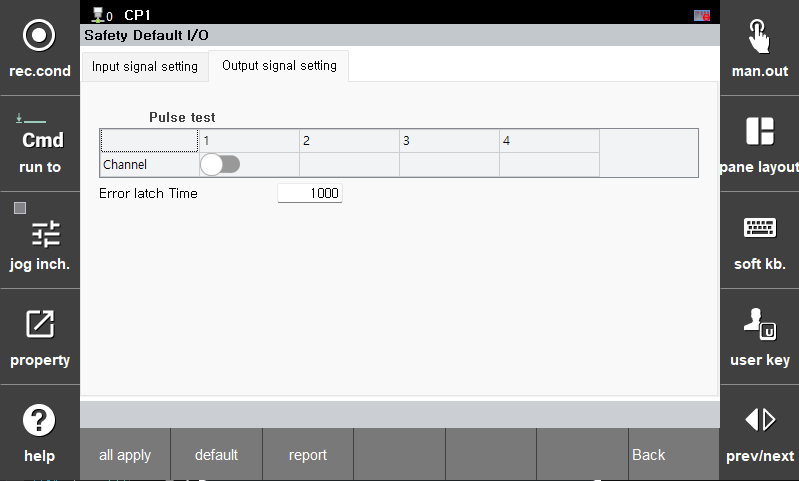
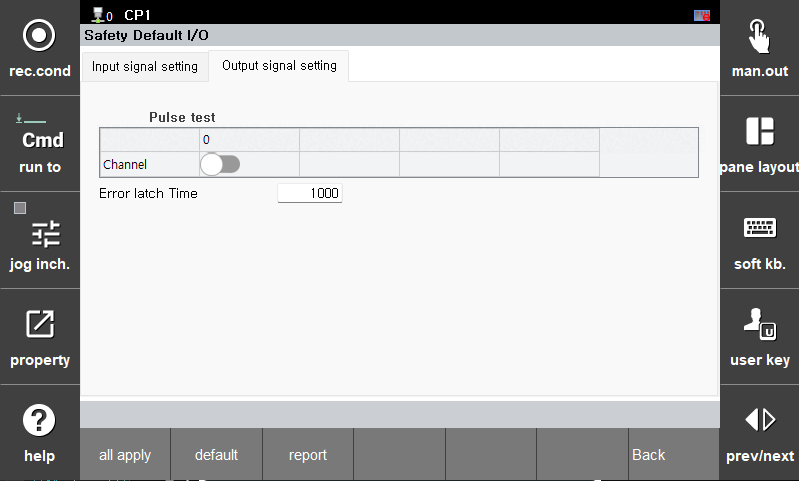
협동로봇인증 요구사항 반영

Changed region(s): [[0.1202, 0.2495, 0.8711, 0.343]]

diff --git a/4-configuration/2-test-safety-functions.md b/4-configuration/2-test-safety-functions.md
@@ -1,0 +1,173 @@
+# 4.2 Safety Function Test
+
+When the robot system is installed and configured for the first time, or whenever robot components are replaced or optional devices are added or modified, the relevant safety functions shall be tested and validated in accordance with the procedures described below before the robot system is put into operation.
+
+
+### 1. Emergency Stop
+
+| Step | Test Procedure                                                                               | Expected Result                                      |
+| ---- | -------------------------------------------------------------------------------------------- | ---------------------------------------------------- |
+| 1    | Check that there is no visible damage or abnormality on the robot and the robot controller.  | No abnormalities are found.                          |
+| 2    | Verify that the Emergency Stop button is released.<br>(Turn it clockwise until it pops out.) | Emergency Stop released.                             |
+| 3    | Turn on the power to the robot controller.                                                   | The controller starts up.                            |
+| 4    | In Manual mode, operate the Enabling Switch to change to the **Motor ON** state.             | The **Motor ON** indicator on the TP is illuminated. |
+| 5    | Press the Emergency Stop button.                                                             | An Emergency Stop input is detected.                 |
+| 6    | Verify that the system has changed to the **Motor OFF** state.                               | **Motor OFF** state.                                 |
+
+
+**Acceptance Criteria**
+
+* Pressing the Emergency Stop button shall cause the system to transition to the **Motor OFF** state.
+* The **Motor ON** indicator on the TP shall blink or turn off.
+* The robot shall not be operable while the Emergency Stop condition is active.
+
+
+<br>
+
+### 2. Safeguard General Signal (SGG)
+
+| Step | Test Procedure                                                                              | Expected Result                                                |
+| ---- | ------------------------------------------------------------------------------------------- | -------------------------------------------------------------- |
+| 1    | Check that there is no visible damage or abnormality on the robot and the robot controller. | No abnormalities are found.                                    |
+| 2    | Verify that the safeguard signal is inactive. (Example: The safety fence door is closed.)   | Safeguard signal is in the normal state. (System Input screen) |
+| 3    | Turn on the power to the robot controller.                                                  | The controller starts up.                                      |
+| 4    | In Manual mode, operate the Enabling Switch to change to the **Motor ON** state.            | The **Motor ON** indicator on the TP is illuminated.           |
+| 5    | Activate the safeguard signal. (Example: Open the safety fence door.)                       | Safeguard signal input is detected.                            |
+| 6    | Verify that the system has changed to the **Motor OFF** state.                              | **Motor OFF** state.                                           |
+
+**Acceptance Criteria**
+
+* Activating the safeguard signal shall cause the system to transition to the **Motor OFF** state.
+* The **Motor ON** indicator on the TP shall blink or turn off.
+* The robot shall not be operable while the safeguard signal is active.
+
+
+<br>
+
+### 3. Safeguard Automatic Signal (SGA)
+
+| Step | Test Procedure                                                                              | Expected Result                                                |
+| ---- | ------------------------------------------------------------------------------------------- | -------------------------------------------------------------- |
+| 1    | Check that there is no visible damage or abnormality on the robot and the robot controller. | No abnormalities are found.                                    |
+| 2    | Verify that the safeguard signal is inactive. (Example: The safety fence door is closed.)   | Safeguard signal is in the normal state. (System Input screen) |
+| 3    | Turn on the power to the robot controller.                                                  | The controller starts up.                                      |
+| 4    | In **Automatic** mode, change to the **Motor ON** state.                                    | The **Motor ON** indicator on the TP is illuminated.           |
+| 5    | Open the safeguard. (Example: Open the safety fence door.)                                  | Safeguard signal input is detected.                            |
+| 6    | Verify that the system has changed to the **Motor OFF** state.                              | The **Motor ON** indicator on the TP blinks or turns off.      |
+
+**Acceptance Criteria**
+
+* Activating the safeguard signal in **Automatic** mode shall cause the system to transition to the **Motor OFF** state.
+* The **Motor ON** indicator on the TP shall blink or turn off.
+* The robot shall not be operable while the safeguard signal is active.
+
+
+<br>
+
+### 4. Enabling Switch
+
+| Step | Test Procedure                                                                                 | Expected Result                                           |
+| ---- | ---------------------------------------------------------------------------------------------- | --------------------------------------------------------- |
+| 1    | Check that there is no visible damage or abnormality on the robot and the robot controller.    | No abnormalities are found.                               |
+| 2    | Turn on the power to the robot controller.                                                     | The controller starts up.                                 |
+| 3    | In **Manual** mode, hold the **Enabling Switch** in the middle position (**Enable Position**). | Enabling state is active.                                 |
+| 4    | Verify that the system is in the **Motor ON** state.                                           | The **Motor ON** indicator on the TP is illuminated.      |
+| 5    | Release the **Enabling Switch**. <br> or  Squeeze the **Enabling Switch** fully.                   | Enabling is deactivated.                                  |
+| 6    | Verify that the system has changed to the **Motor OFF** state.                                 | The **Motor ON** indicator on the TP blinks or turns off. |
+
+**Acceptance Criteria**
+
+* Releasing the **Enabling Switch** shall cause the system to transition to the **Motor OFF** state.
+* The **Motor ON** indicator on the TP shall blink or turn off.
+* The robot shall not be operable while the **Enabling Switch** is released.
+
+
+<br>
+
+### 5. 비상정지 출력
+
+| 단계 | 시험 절차                               | 예상 결과       |
+| -- | ----------------------------------- | ----------- |
+| 1  | 로봇 및 로봇제어기에 외관상의 손상이나 이상이 없는지 확인한다. | 이상 없음       |
+| 2  | 모든 비상정지 버튼(TP, OP)이 복귀된 상태인지 확인한다.  | 비상정지 해제 상태  |
+| 3  | 로봇제어기의 전원을 투입한다.                    | 제어기 기동      |
+| 4  | 비상정지 출력이 활성화 상태인지 확인한다.             | 비상정지 출력 활성(출력 LED 점등 확인)  |
+| 5  | TP의 비상정지 버튼을 누른다.                   | 비상정지 입력 발생  |
+| 6  | 비상정지 출력이 비활성화 상태로 전환되는지 확인한다.       | 비상정지 출력 비활성(출력 LED 소등 확인) |
+
+**합격 기준**
+
+* 모든 비상정지 버튼이 복귀된 상태에서는 비상정지 출력이 활성화되어야 한다.
+* TP 또는 OP의 비상정지 버튼을 누르면 비상정지 출력이 비활성화되어야 한다.
+* 비상정지 상태가 유지되는 동안 비상정지 출력은 비활성 상태를 유지하여야 한다.
+
+<br>
+
+### 6. 기본 및 부가 안전 입력
+
+**사전 조건 (Pre-condition)**
+
+* 안전기능 할당 설정에서 시험 대상 입력 채널에 비상정지(E-Stop) 기능이 할당되어 있어야 한다.
+
+| 단계 | 시험 절차                                         | 예상 결과                              |
+| -- | --------------------------------------------- | ---------------------------------- |
+| 1  | 로봇 및 로봇제어기에 외관상의 손상이나 이상이 없는지 확인한다.           | 이상 없음                              |
+| 2  | 비상정지 버튼이 복귀된 상태인지 확인한다.                       | 비상정지 해제 상태                         |
+| 3  | 로봇제어기의 전원을 투입한다.                              | 제어기 기동                             |
+| 4  | 수동 모드에서 Enabling Switch를 조작하여 모터 ON 상태로 전환한다. | TP의 Motor ON 표시등 점등                |
+| 5  | 시험 대상 안전 입력에 연결된 비상정지 버튼을 누른다.                | 비상정지 입력 발생                         |
+| 6  | 모터 OFF 여부를 확인한다.                              | TP의 Motor ON 표시등이 점멸 또는 소등 상태로 변경됨 |
+
+**합격 기준**
+
+* 시험 대상 안전 입력에 비상정지 신호가 입력되면 모터 전원이 차단되어야 한다.
+* TP의 Motor ON 표시등이 점멸 또는 소등 상태로 변경되어야 한다.
+* 비상정지 상태에서는 로봇이 구동되지 않아야 한다.
+
+<br>
+
+### 7. 기본 및 부가 안전 출력
+
+**사전 조건 (Pre-condition)**
+
+* 안전기능 할당 설정에서 시험 대상 출력 채널에 비상정지 출력(E-Stop Output) 기능이 할당되어 있어야 한다.
+
+| 단계 | 시험 절차                               | 예상 결과          |
+| -- | ----------------------------------- | -------------- |
+| 1  | 로봇 및 로봇제어기에 외관상의 손상이나 이상이 없는지 확인한다. | 이상 없음          |
+| 2  | 모든 비상정지 버튼(TP, OP)이 복귀된 상태인지 확인한다.<br>(시계방향 회전 시켜 돌출 확인)   | 비상정지 해제 상태     |
+| 3  | 로봇제어기의 전원을 투입한다.                    | 제어기 기동         |
+| 4  | 시험 대상 안전 출력이 활성화 상태인지 확인한다.         | 비상정지 출력 활성 상태(출력 LED 점등 확인)  |
+| 5  | TP의 비상정지 버튼을 누른다.                   | 비상정지 입력 발생     |
+| 6  | 시험 대상 안전 출력이 비활성화 상태로 전환되는지 확인한다.   | 비상정지 출력 비활성 상태(출력 LED 소등 확인) |
+
+**합격 기준**
+
+* 모든 비상정지 버튼이 복귀된 상태에서는 시험 대상 안전 출력이 활성화 상태여야 한다.
+* TP 또는 OP의 비상정지 버튼이 눌리면 시험 대상 안전 출력이 비활성화 상태로 전환되어야 한다.
+* 비상정지 상태가 유지되는 동안 시험 대상 안전 출력은 비활성 상태를 유지하여야 한다.
+
+<br>
+
+### 8. 브레이크 테스트
+
+| 단계 | 시험 절차                               | 예상 결과              |
+| -- | ----------------------------------- | ------------------ |
+| 1  | 로봇 및 로봇제어기에 외관상의 손상이나 이상이 없는지 확인한다. | 이상 없음              |
+| 2  | 로봇제어기의 전원을 투입한다.                    | 제어기 기동             |
+| 3  | 브레이크 테스트 Job 프로그램을 불러온다.            | 프로그램 정상 로드         |
+| 4  | 조작 모드를 자동 모드로 변경한다.                 | 자동 모드 변경 확인        |
+| 5  | 모터 ON 버튼을 입력한다.                     | 모터 ON 상태로 전환됨      |
+| 6  | 시작 버튼을 입력한다.                        | 브레이크 테스트 프로그램이 실행됨 |
+| 7  | 프로그램 종료 여부를 확인한다.                   | 브레이크 테스트 정상 종료     |
+
+**합격 기준**
+
+* 브레이크 테스트 프로그램 실행 중 모터 ON 상태가 유지되어야 한다.
+* 브레이크 테스트 프로그램 실행 중 에러가 발생하지 않아야 한다.
+* 브레이크 테스트 프로그램이 정상적으로 종료되어야 한다.
+<br>"[로봇언어 HRScript](https://hrbook-hrc.web.app/#/view/doc-hrscript/ko/10-etc/1-proc/16-brake_check?cont_model=Hi7)" 참고
+
+
+
+

diff --git a/3-safety-function/3-safety-function/4-safety-io/1-default-io.md b/3-safety-function/3-safety-function/4-safety-io/1-default-io.md
@@ -13,10 +13,15 @@ You can set the parameter values in the `[System > 10: Safety System > 2: Parame
 
 | Parameter <br>[Unit]          | Description                                                                                                                                       | Input Range       | Default |
 |:------------------------:|:----------------------------------------------------------------------------------------------------------------------------------:|:--------------:|:------:|
-| Pulse Test                 | Set whether to use the Pulse Test for each channel.                                                                                                     | Enable / Disable | Disable |
+| Pulse Test                 | Set whether to use the Pulse Test for each channel. <br>For channels with the pulse test enabled, test pulses are sent to the input side as shown in the figure below. The cable condition is then verified by checking the received pulse signals.| Enable / Disable | Disable |
 | Error Latch Time <br>[msec] | When an error occurs in a channel, even if the error is resolved, the system transitions from the Fail-Safe state to the current input state only after the **Error Latch Time** has elapsed.<br>Only values divisible by 10 can be entered. | 0 ~ 65530      | 1000   |
 | Filter Time <br>[msec]      | The same signal should be input during the **Filter Time** set for each channel for it to be processed as a valid signal.<br>Only values divisible by 10 can be entered.                       | 0 ~ 500        | 100    |
 | Discrete Time <br>[msec] | Basic input signals are processed as valid signals when two dual signals are identical.<br>An alarm is triggered if the two signals are different from each other for longer than the set **Discrete Time**.<br>Only values divisible by 10 can be entered. | 0 ~ 5000       | 1000   |
+
+#### Input Test Pulse)
+<p align="center">
+<img src="../../../_assets/safety_io/Testpulse_Input.png"></img>
+</p>
 
 #### Wiring Example)
 ![](../../../_assets/safety_io/CN_SI1.bmp)
@@ -31,8 +36,14 @@ You can set the parameter values in the `[System > 10: Safety System > 2: Parame
 
 | Parameter <br>[Unit]          | Description                                                                                                                                       | Input Range       | Default |
 |:------------------------:|:----------------------------------------------------------------------------------------------------------------------------------:|:--------------:|:------:|
-| Pulse Test                 | Set whether to use the Pulse Test for each channel.                                                                                                     | Enable / Disable | Disable |
+| Pulse Test                 | Configures whether the pulse test is used.<br> When the pulse test is enabled, the controller sends test pulses as shown in the figure below and determines the output status by verifying the received pulse signals. | Enable / Disable | Disable |
 | Error Latch Time <br>[msec] | When an error occurs in a channel, even if the error is recovered, the system maintains the **Open (Fail-safe)** state during the **Error Latch Time**. Afterward, it  transitions to normal output.<br>Only values divisible by 5 can be entered. | 0 ~ 65530      | 1000   |
+
+
+#### Output Test Pulse)
+<p align="center">
+<img src="../../../_assets/safety_io/Testpulse_Output.png"></img>
+</p>
 
 #### Wiring Example)
 ![](../../../_assets/safety_io/CN_SO1.bmp)

diff --git a/1-safety/6-reaction-time.md b/1-safety/6-reaction-time.md
@@ -5,6 +5,17 @@
 
 The response time to be taken from safety function violation to stop execution is 9.8ms. The response time should be reflected when calculating the robot's stop time and stop distance.
 
-* **PROFIsafe Response Time**
 
-The response time to be taken from stop execution by PROFIsafe F-output data is 40.8ms. To get the time until the robot completely stops, the communication cycle and the robot's stop time and stop distance calculation values should be added.
+* **Safety Input Response Time (Safety Input)**
+
+The maximum response time from the receipt of a stop signal through a safety input (**Default** or **Additional**) until the stop action is initiated is **11 ms**. This value does not include the input signal filter time, nor does it include the robot stopping time or stopping distance.
+
+* **Safety Input Response Time (Safety Communication)**
+
+The maximum response time from the receipt of a stop signal through safety communication until the stop action is initiated is **42 ms**. To obtain the total time required for the robot to come to a complete stop, the safety communication cycle time and the robot stopping time and stopping distance shall be taken into account.
+
+* **Safety Output Response Time (Safety Communication)**
+
+The maximum response time from the generation of a safety output by the safety application until the signal is transmitted through safety communication is **28 ms**. To calculate the total transmission time to the safety PLC, the safety communication cycle time shall be added.
+
+

diff --git a/3-safety-function/3-safety-function/2-robot-safety-condition/README.md b/3-safety-function/3-safety-function/2-robot-safety-condition/README.md
@@ -20,6 +20,12 @@ The following safety features can be configured in the Robot Limits menu:
 * **Power Detection**: Limits the force in the event of a collision between the robot and the worker.
 * **Momentum**: Limits the energy and impact load in the event of a collision between the robot and the worker.
 
+{% hint style="warning" %}
+**\[Caution]** : When the speed limit of any of the following safety functions is changed, it may take up to 10 ms for the new limit to become effective. In addition, for the Replan function, extra deceleration time may be required depending on the current operating conditions until the robot complies with the updated speed limit. This behavior shall be taken into consideration.
+* Joint Speed Limit 
+* TCP Speed Limit 
+* Replan
+{% endhint %}
 
 {% hint style="warning" %}
 <strong>[Caution]</strong>: Operators and users must perform a risk assessment before configuring robot safety functions to ensure the safety of personnel and equipment surrounding the robot. Based on the assessment results, configure the following:

diff --git a/SUMMARY.md b/SUMMARY.md
@@ -59,8 +59,9 @@
     * [4.1.1 Password Setting](4-configuration/1-check-before-configuration/3-password-setting.md)
     * [4.1.2 Encoder Offset](4-configuration/1-check-before-configuration/1-encoder-offset.md)
     * [4.1.3 Tool Data Setting](4-configuration/1-check-before-configuration/2-tool-data-setting.md)
-  * [4.2 Safety Parameters Transfer](4-configuration/2-change-safety-parameter.md)
-  * [4.3 Safety Parameter Report](4-configuration/3-safety-parameter-report.md)
+  * [4.2 Safety functions test](4-configuration/2-test-safety-functions.md)
+  * [4.3 Safety Parameters Transfer](4-configuration/3-change-safety-parameter.md)
+  * [4.4 Safety Parameter Report](4-configuration/4-safety-parameter-report.md)
 * [5. Safety Status Monitoring](5-monitoring/README.md)
   * [5.1 Robot Monitoring Function Status](5-monitoring/1-robot-limit-parameter-monitoring.md)
   * [5.2 Safety I/O Status](5-monitoring/4-safety-io-status-monitoring.md)
